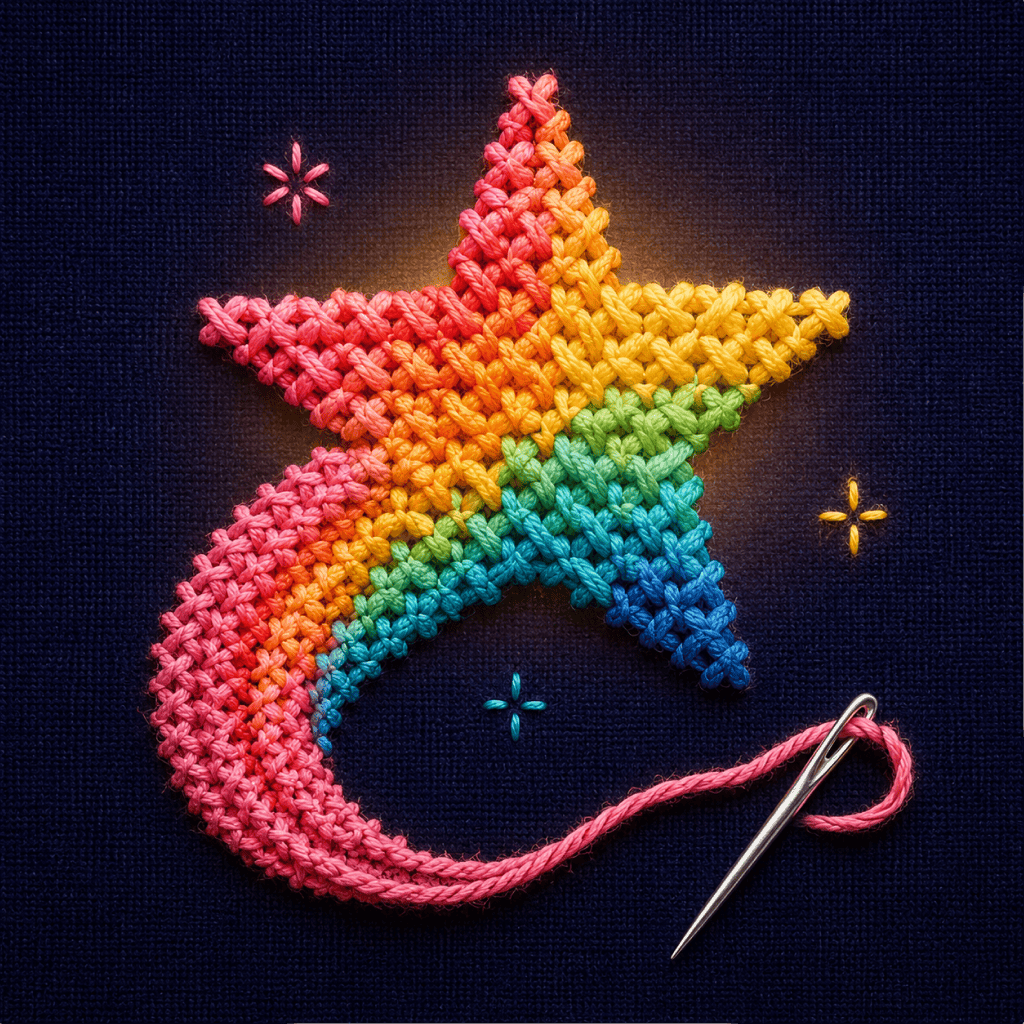
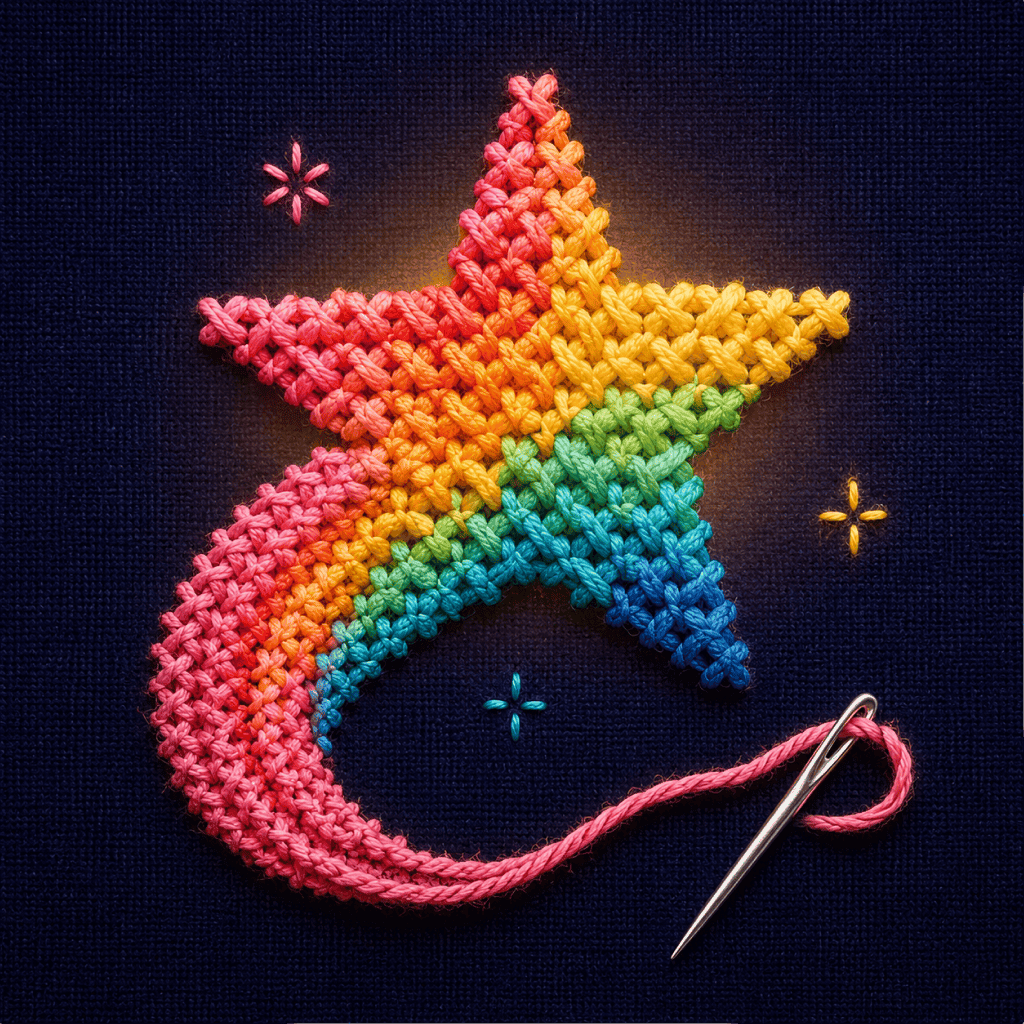
Update onboarding hero and tutorial reset
Replaces the welcome screen pattern preview with dedicated hero artwork, updates styling, and raises the in-game floating rail so controls are not obscured on onboarding layouts. It also hardens `resetOnboarding()` by deleting any stale starter tutorial session before resetting config, with tests added to cover the cleanup behavior. App version is bumped to 1.2 and app/onboarding image assets are refreshed.

diff --git a/app/app/onboarding/welcome.tsx b/app/app/onboarding/welcome.tsx
@@ -1,15 +1,18 @@
 import React, { useState } from 'react';
-import { Pressable, StyleSheet, Text, View } from 'react-native';
+import { Image, Pressable, StyleSheet, Text, View } from 'react-native';
 import { useRouter } from 'expo-router';
 
 import { BUNDLED_PATTERNS } from '@/bundled-patterns';
-import { Button, PatternImage, Screen } from '@/components';
+import { Button, Screen } from '@/components';
 import { setHandedness as persistHandedness } from '@/local-db';
 import { ONBOARDING_STARTER_PATTERN_ID, saveOnboardingPosition, startTutorial } from '@/onboarding/state';
 import { prepareBundledSession } from '@/session-preparation';
 import { useGameplayStore } from '@/store/gameplayStore';
 import { Theme } from '@/theme/theme';
 import { beginOnboardingSession, onboardingDurationMs, onboardingFinished, onboardingHandednessSelected, onboardingStartChoice, onboardingStepViewed, onboardingStitchCount, stitchingSessionStarted } from '@/analytics/onboarding';
+
+/** Welcome hero art; the stitched Pattern stays the canonical starter_heart. */
+const WELCOME_HERO = require('../../assets/onboarding-welcome-hero.png');
 
 export default function WelcomeScreen() {
   const router = useRouter();
@@ -62,12 +65,12 @@ export default function WelcomeScreen() {
     <Screen scrollable contentContainerStyle={styles.container} clearsTabBar={false}>
       <Text style={styles.eyebrow}>WELCOME TO STITCH WISH</Text>
       <Text style={styles.title}>Pick a color, tap the matching squares.</Text>
-      <PatternImage
-        assets={{}}
-        variant="detail"
-        localAsset={starter.previewAsset}
+      <Image
+        source={WELCOME_HERO}
+        accessible
         accessibilityLabel="Cozy Heart starter pattern preview"
         style={styles.preview}
+        resizeMode="cover"
       />
       <Text style={styles.sectionTitle}>Which side should the controls use?</Text>
       <View
@@ -115,7 +118,7 @@ const styles = StyleSheet.create({
   container: { flexGrow: 1, gap: Theme.spacing.lg, padding: Theme.spacing.xl, justifyContent: 'center' },
   eyebrow: { color: Theme.colors.accentRose, fontSize: Theme.typography.sizes.xs, fontWeight: Theme.typography.weights.bold, letterSpacing: 1.4, textAlign: 'center' },
   title: { color: Theme.colors.textPrimary, fontSize: Theme.typography.sizes.xxl, fontWeight: Theme.typography.weights.bold, textAlign: 'center' },
-  preview: { alignSelf: 'center', aspectRatio: 1, borderRadius: Theme.radii.xl, maxHeight: 280, width: '82%' },
+  preview: { alignSelf: 'center', aspectRatio: 1, backgroundColor: Theme.colors.patternImageBackdrop, borderRadius: Theme.radii.xl, maxHeight: 280, overflow: 'hidden', width: '82%' },
   sectionTitle: { color: Theme.colors.textPrimary, fontSize: Theme.typography.sizes.md, fontWeight: Theme.typography.weights.semibold, textAlign: 'center' },
   segments: { flexDirection: 'row', gap: Theme.spacing.sm },
   segment: { alignItems: 'center', borderColor: Theme.colors.border, borderRadius: Theme.radii.lg, borderWidth: 2, flex: 1, minHeight: 48, justifyContent: 'center', padding: Theme.spacing.sm },

diff --git a/app/src/onboarding/state.ts b/app/src/onboarding/state.ts
@@ -1,4 +1,5 @@
 import {
+  deleteSession,
   getDeviceConfigValue,
   findActiveSessionForPattern,
   hasPlayHistory,
@@ -159,6 +160,16 @@ export async function resumeTutorial(sessionId: string): Promise<void> {
 }
 
 export async function resetOnboarding(): Promise<void> {
+  // The starter session is reused idempotently, so a leftover one would resume
+  // mid-tutorial with stitched cells instead of restarting from the beginning.
+  const staleSessionIds = new Set<string>();
+  if (startupState?.tutorialSessionId) staleSessionIds.add(startupState.tutorialSessionId);
+  const starterSession = await findActiveSessionForPattern(ONBOARDING_STARTER_PATTERN_ID, 'bundled');
+  if (starterSession) staleSessionIds.add(starterSession.id);
+  for (const sessionId of staleSessionIds) {
+    await deleteSession(sessionId);
+  }
+
   await setDeviceConfigValues([
     [KEYS.position, 'welcome'],
     [KEYS.tutorialRunState, 'running'],

diff --git a/app/src/onboarding/__tests__/state.test.ts b/app/src/onboarding/__tests__/state.test.ts
@@ -4,6 +4,7 @@ jest.mock('../../local-db', () => ({
   setDeviceConfigValues: jest.fn(),
   hasPlayHistory: jest.fn(),
   findActiveSessionForPattern: jest.fn(),
+  deleteSession: jest.fn(),
 }));
 
 import * as localDb from '../../local-db';
@@ -101,6 +102,14 @@ describe('onboarding persistence', () => {
       tutorialSessionId: 'session-heart', nextBeat: 2, activeDmcCode: '321',
     });
     expect(localDb.findActiveSessionForPattern).not.toHaveBeenCalled();
+  });
+
+  it('deletes the leftover starter session so the tutorial restarts from the first beat', async () => {
+    jest.mocked(localDb.findActiveSessionForPattern).mockResolvedValue({ id: 'session-heart' } as never);
+
+    await resetOnboarding();
+
+    expect(localDb.deleteSession).toHaveBeenCalledWith('session-heart');
   });
 
   it('resets onboarding atomically to the fresh-install state', async () => {

diff --git a/app/app/(tabs)/(play)/[sessionId].tsx b/app/app/(tabs)/(play)/[sessionId].tsx
@@ -729,7 +729,9 @@ const styles = StyleSheet.create({
   },
   floatingRail: {
     position: 'absolute',
-    bottom: 96,
+    // Keep both controls above the variable-height palette/coach dock.
+    // At 96 the second button is covered by the dock on onboarding screens.
+    bottom: 210,
     gap: Theme.spacing.md,
     zIndex: 20,
   },
